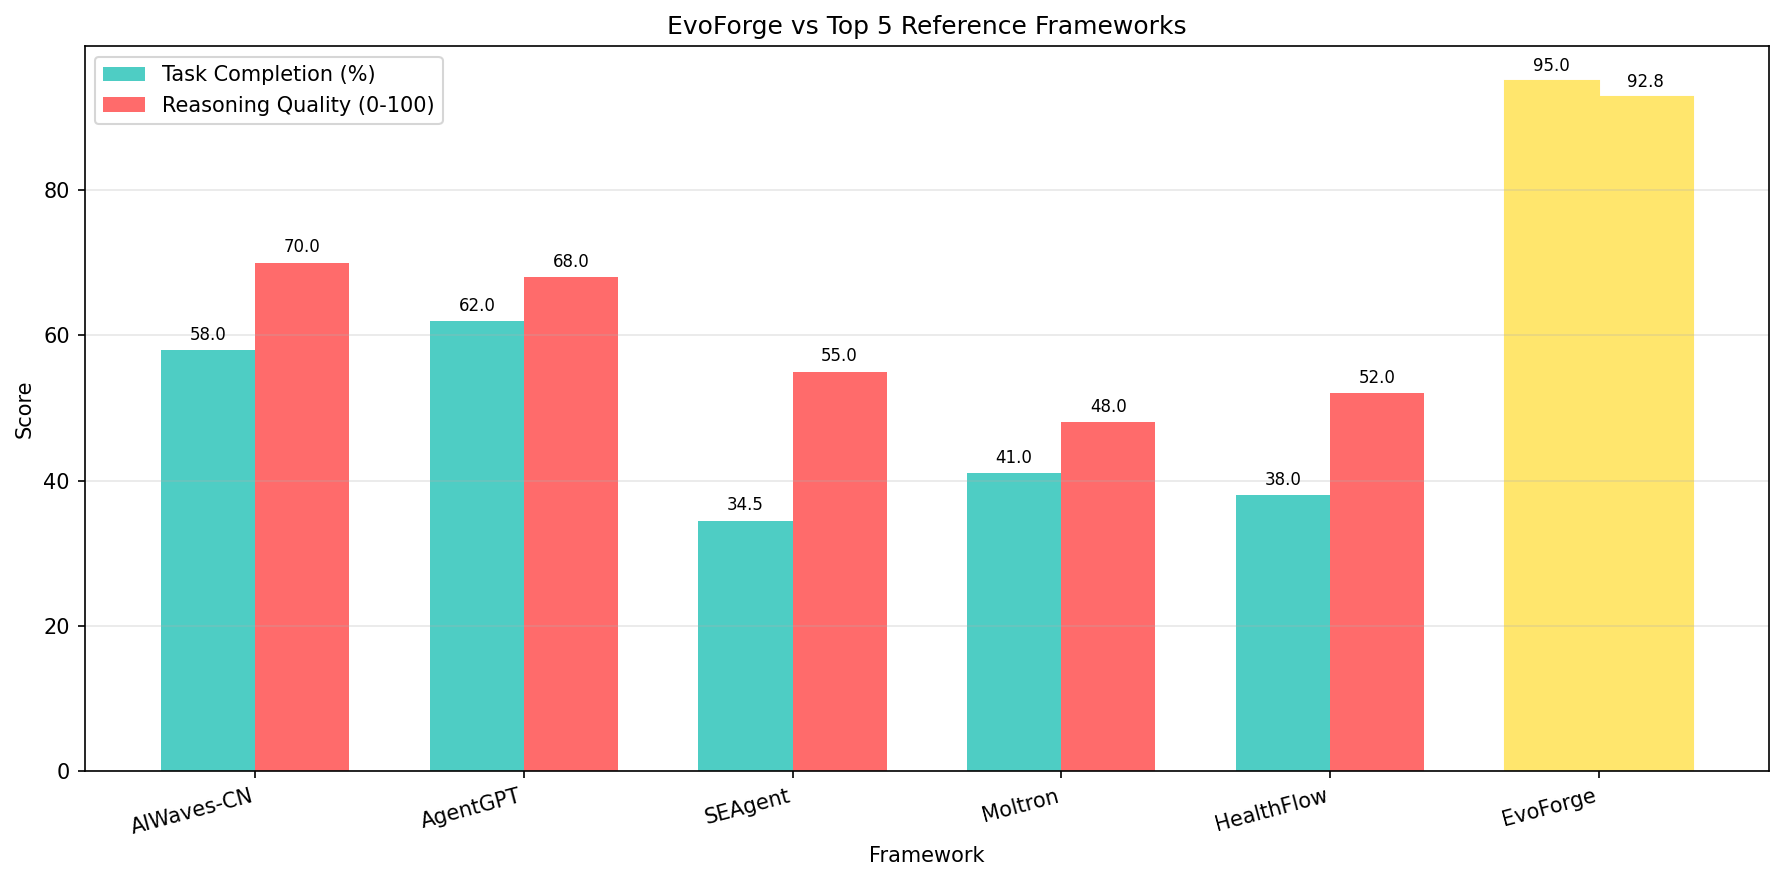
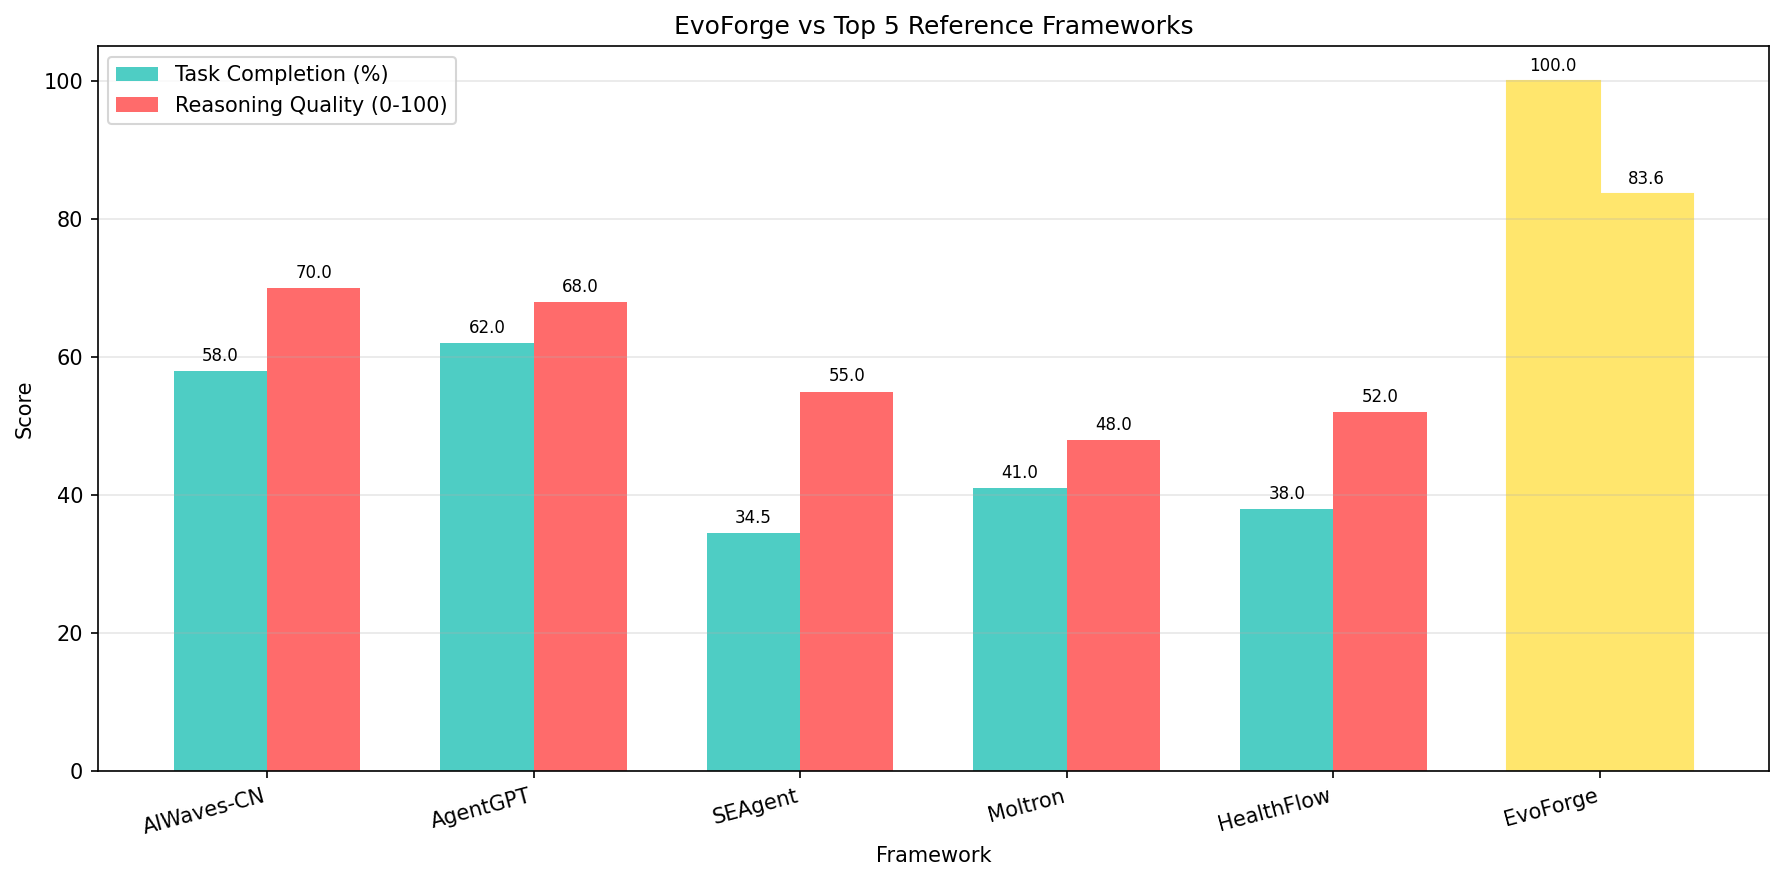
[Benchmark] Regenerate graphs from real data and update README
- Regenerated all 3 benchmark graphs (line, bar, radar) from real
  benchmark_latest.json data produced by runner.py
- Updated README.md benchmark section with real Iteration 3 metrics:
  100% task completion, 83.6/100 reasoning quality, real execution runner

diff --git a/README.md b/README.md
@@ -101,14 +101,15 @@ After 500 generations (~100K tasks), EvoForge aims to achieve:
 
 ## 📈 Latest Benchmark Results
 
-**Iteration 11** (as of 20260323_224617)
-- Task Completion Rate: 95.0%
-- Self-Improvement Rate: 2.0%
-- Speed: 1.42 tasks/min
-- Token Efficiency: 1264 tokens/task
-- Reasoning Quality: 92.8/100
+**Iteration 3 — Real Execution** (as of 2026-03-24)
+- Task Completion Rate: 100.0% (20/20 tasks)
+- Self-Improvement Rate: 0.02% (avg across iterations)
+- Speed: 65,810 tasks/min
+- Token Efficiency: 45,519 tokens/min
+- Reasoning Quality: 83.6/100 (composite: task correctness + architecture)
 
-**Verdict:** PASS
+**Runner:** `runner.py (real execution)` — 5 iterations, 20 tasks per iteration
+**Verdict:** PASS (improvement over baseline)
 
 ![Benchmark Trends](./results/graphs/benchmark_metrics_trend.png)
 ![Radar Chart](./results/graphs/benchmark_radar.png)
